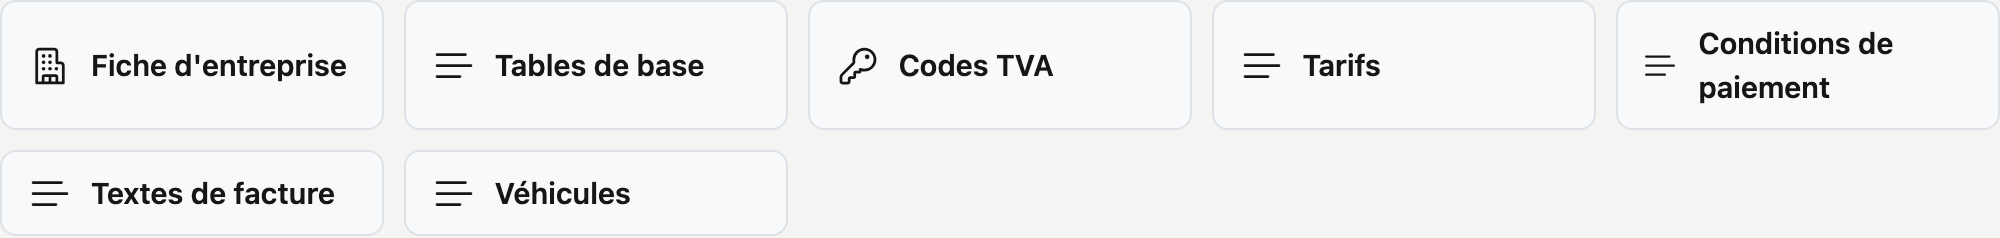
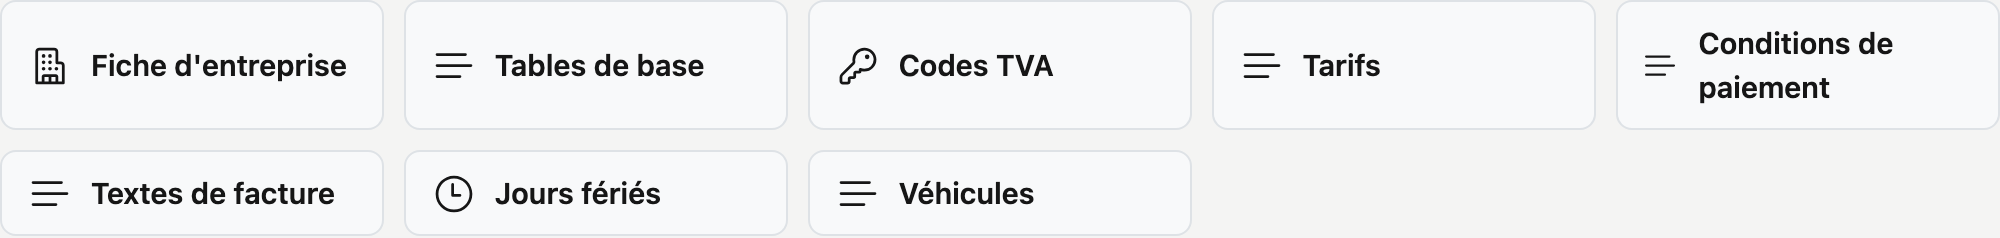
Feestdagen: nieuwe handleidingpagina (NL/FR) + vier beelden; hubbeelden opnieuw met de nieuwe tegel
- beheer/feestdagen.md/.fr.md: de lijst per jaar, wettelijke feestdagen (uit ADM One, elk jaar vanzelf, niet te
  wijzigen; ook die in het weekend), sluitingsdagen (toevoegen, wijzigen, definitief verwijderen), het journaal met het
  logboek van alle sluitingsdagen, waar ze meetellen (verlof, ploegen), en wat er gebeurt als het jaar niet laadt.
- Beelden uit de demo ("Collectieve sluiting" 28-31/12): lijst en venster, NL en FR. Het merkteken van de lijst is de
  badge "sluitingsdag" - de naam staat ook in het verborgen logboek van de journaalstrook.
- Platformbeheer: acht tegels (Feestdagen erbij), beelden opnieuw. Medewerkers: het verlof verwijst naar de pagina.
- mkdocs.yml: nav + nav_translations (Jours fériés).

Changed region(s): [[0.217, 0.7353, 0.341, 0.8824], [0.403, 0.7647, 0.527, 0.8529], [0.403, 0.8529, 0.434, 0.8824]]

diff --git a/docs/beheer/feestdagen.fr.md b/docs/beheer/feestdagen.fr.md
@@ -1,0 +1,60 @@
+# Jours fériés
+
+Les jours non travaillés : les **jours fériés légaux** et vos propres **jours de fermeture**, comme un pont ou la
+fermeture collective entre Noël et Nouvel An. Aucun des deux ne compte comme jour de congé, et le tableau des équipes
+les affiche.
+
+![La liste Jours fériés de 2026, avec les jours fériés légaux et la fermeture collective du 28 au 31 décembre](../images/feestdagen-lijst-fr.png "Jours fériés")
+
+## Ouvrir l'écran
+
+Dans le menu, cliquez en bas sur **Administration**, puis sur la tuile **Jours fériés**.
+
+## La liste
+
+La liste montre une année ; choisissez-la en haut à **Année**. Pour chaque jour ou période, vous voyez :
+
+| Colonne | Ce que c'est |
+|---|---|
+| Du, Au | le premier et le dernier jour |
+| Jour | le jour de la semaine, pour un seul jour |
+| Description | le nom, par exemple *Lundi de Pâques* ou *Fermeture collective* |
+| Type | **jour férié légal** ou **jour de fermeture** |
+
+### Jours fériés légaux
+
+CleanOps calcule lui-même chaque année les jours fériés légaux belges, y compris ceux qui dépendent de Pâques : le
+lundi de Pâques, l'Ascension et le lundi de Pentecôte. Vous n'avez pas à les encoder, et vous ne pouvez ni les
+modifier ni les supprimer. Si vous choisissez l'année suivante, ils y figurent déjà.
+
+Un jour férié qui tombe un samedi ou un dimanche figure aussi dans la liste. Pour les congés, cela ne change rien : ce
+jour n'était pas un jour de travail.
+
+!!! note "L'année ne peut pas être chargée ?"
+    Un message apparaît alors au-dessus de la liste, et vous ne voyez que vos propres jours de fermeture. Réessayez un
+    peu plus tard. Tant que les jours fériés ne peuvent pas être chargés, CleanOps refuse aussi d'encoder des congés :
+    sinon, un jour férié compterait comme jour de congé.
+
+### Jours de fermeture
+
+Les jours de fermeture sont décidés par votre entreprise : un pont, la fermeture collective, le congé du bâtiment.
+
+![La fenêtre Modifier le jour de fermeture, avec la période et la description en néerlandais et en français](../images/feestdag-venster-fr.png "Jour de fermeture")
+
+- **Ajouter** — cliquez sur **Nouveau jour de fermeture**. Du et Au sont obligatoires (pour un seul jour, indiquez
+  deux fois la même date), ainsi qu'une description dans au moins une langue.
+- **Modifier** — double-cliquez sur la ligne.
+- **Supprimer** — ouvrez la ligne et cliquez sur **Supprimer**. Après confirmation, le jour de fermeture disparaît
+  définitivement.
+
+## Le journal
+
+À droite se trouve le **Journal**. L'onglet **Historique** montre qui a créé, modifié ou supprimé quel jour de
+fermeture, et quand — y compris ceux qui ne figurent plus dans la liste. Chaque ligne nomme le jour de fermeture
+concerné.
+
+## Où les jours fériés comptent
+
+- **Congés** — pour une période de congé sur la [fiche collaborateur](../medewerkers.fr.md), CleanOps ne compte que
+  les jours de travail du collaborateur, sans jours fériés ni jours de fermeture.
+- **Équipes** — le tableau des équipes colore le jour et en affiche le nom.

diff --git a/docs/beheer/feestdagen.md b/docs/beheer/feestdagen.md
@@ -1,0 +1,58 @@
+# Feestdagen
+
+De dagen waarop niet gewerkt wordt: de **wettelijke feestdagen** en uw eigen **sluitingsdagen**, zoals een brugdag of
+de collectieve sluiting tussen Kerstmis en Nieuwjaar. Geen van beide telt mee als verlofdag, en het ploegenbord toont
+ze.
+
+![De lijst Feestdagen van 2026, met de wettelijke feestdagen en de collectieve sluiting van 28 tot 31 december](../images/feestdagen-lijst.png "Feestdagen")
+
+## Het scherm openen
+
+Klik onderaan in het menu op **Platformbeheer** en daarna op de tegel **Feestdagen**.
+
+## De lijst
+
+De lijst toont één jaar; kies het bovenaan bij **Jaar**. Per dag of periode ziet u:
+
+| Kolom | Wat het is |
+|---|---|
+| Van, Tot | de eerste en de laatste dag |
+| Dag | de weekdag, bij een enkele dag |
+| Omschrijving | de naam, bijvoorbeeld *Paasmaandag* of *Collectieve sluiting* |
+| Soort | **wettelijke feestdag** of **sluitingsdag** |
+
+### Wettelijke feestdagen
+
+CleanOps rekent de Belgische wettelijke feestdagen elk jaar zelf uit, ook de dagen die met Pasen meeschuiven:
+Paasmaandag, Hemelvaart en Pinkstermaandag. U hoeft ze niet in te geven, en u kunt ze niet wijzigen of verwijderen.
+Kiest u een volgend jaar, dan staan ze er al.
+
+Ook een feestdag die op een zaterdag of zondag valt, staat in de lijst. Voor het verlof maakt dat niets uit: die dag
+was geen werkdag.
+
+!!! note "Kan het jaar niet geladen worden?"
+    Dan staat er een melding boven de lijst, en ziet u enkel uw eigen sluitingsdagen. Probeer het even later
+    opnieuw. Zolang de feestdagen niet geladen kunnen worden, weigert CleanOps ook verlof te boeken: anders zou een
+    feestdag als verlofdag meetellen.
+
+### Sluitingsdagen
+
+Sluitingsdagen beslist uw bedrijf zelf: een brugdag, de collectieve sluiting, het bouwverlof.
+
+![Het venster Sluitingsdag wijzigen, met de periode en de omschrijving in het Nederlands en het Frans](../images/feestdag-venster.png "Sluitingsdag")
+
+- **Toevoegen** — klik op **Nieuwe sluitingsdag**. Van en Tot zijn verplicht (voor één dag vult u tweemaal dezelfde
+  datum in), en een omschrijving in minstens één taal.
+- **Wijzigen** — dubbelklik op de rij.
+- **Verwijderen** — open de rij en klik op **Verwijderen**. Na een bevestiging is de sluitingsdag definitief weg.
+
+## Het journaal
+
+Rechts staat het **Journaal**. Het tabblad **Logboek** toont wie welke sluitingsdag wanneer aanmaakte, wijzigde of
+verwijderde — ook sluitingsdagen die niet meer in de lijst staan. Elke regel noemt de sluitingsdag waarover hij gaat.
+
+## Waar de feestdagen meetellen
+
+- **Verlof** — bij een verlofperiode op de [medewerkerfiche](../medewerkers.md) telt CleanOps enkel de werkdagen van
+  de medewerker, zonder feestdagen en sluitingsdagen.
+- **Ploegen** — het ploegenbord kleurt de dag en toont de naam.

diff --git a/docs/platformbeheer.fr.md b/docs/platformbeheer.fr.md
@@ -11,7 +11,7 @@ Cliquez sur **Administration** dans le menu de gauche.
 Les écrans se présentent sous forme de tuiles, groupées par thème. Si vous passez la souris sur une tuile, une
 phrase apparaît qui précise l'usage de l'écran.
 
-![Les sept tuiles des données de base : Fiche d'entreprise, Tables de base, Codes TVA, Tarifs, Conditions de paiement, Textes de facture et Véhicules](images/platformbeheer-stamgegevens-fr.png "Données de base")
+![Les huit tuiles des données de base : Fiche d'entreprise, Tables de base, Codes TVA, Tarifs, Conditions de paiement, Textes de facture, Jours fériés et Véhicules](images/platformbeheer-stamgegevens-fr.png "Données de base")
 
 **Données de base** — ce qui alimente le reste de CleanOps : une ligne de devis y choisit son tarif, une facture son
 code TVA et sa condition de paiement. Lors d'une nouvelle installation, c'est par là que vous commencez.
@@ -23,6 +23,7 @@ code TVA et sa condition de paiement. Lors d'une nouvelle installation, c'est pa
 - [Tarifs](beheer/tarieven.fr.md) — description et prix unitaire pour une ligne de devis
 - [Conditions de paiement](beheer/betalingstermijnen.fr.md) — comment l'échéance d'une facture est calculée
 - [Textes de facture](beheer/factuurteksten.fr.md) — les textes standard au bas d'une facture
+- [Jours fériés](beheer/feestdagen.fr.md) — les jours fériés légaux et vos propres jours de fermeture
 - [Véhicules](beheer/voertuigen.fr.md) — votre parc, l'entretien et le contrôle technique
 
 **Accès**

diff --git a/docs/platformbeheer.md b/docs/platformbeheer.md
@@ -11,7 +11,7 @@ Klik links in het menu op **Platformbeheer**.
 De schermen staan als tegels, gegroepeerd per onderwerp. Gaat u met de muis over een tegel, dan verschijnt een
 zin die zegt waarvoor het scherm dient.
 
-![De zeven tegels voor de stamgegevens: Bedrijfsfiche, Basistabellen, Btw-codes, Tarieven, Betalingstermijnen, Factuurteksten en Voertuigen](images/platformbeheer-stamgegevens.png "Stamgegevens")
+![De acht tegels voor de stamgegevens: Bedrijfsfiche, Basistabellen, Btw-codes, Tarieven, Betalingstermijnen, Factuurteksten, Feestdagen en Voertuigen](images/platformbeheer-stamgegevens.png "Stamgegevens")
 
 **Stamgegevens** — wat de rest van CleanOps voedt: een offertelijn kiest hier haar tarief, een factuur haar
 btw-code en betalingstermijn. Bij een nieuwe inrichting begint u hier.
@@ -23,6 +23,7 @@ btw-code en betalingstermijn. Bij een nieuwe inrichting begint u hier.
 - [Tarieven](beheer/tarieven.md) — omschrijving en eenheidsprijs voor een offertelijn
 - [Betalingstermijnen](beheer/betalingstermijnen.md) — hoe de vervaldag van een factuur berekend wordt
 - [Factuurteksten](beheer/factuurteksten.md) — de standaardteksten onderaan een factuur
+- [Feestdagen](beheer/feestdagen.md) — de wettelijke feestdagen en uw eigen sluitingsdagen
 - [Voertuigen](beheer/voertuigen.md) — uw vloot, het onderhoud en de keuring
 
 **Toegang**

diff --git a/docs/medewerkers.fr.md b/docs/medewerkers.fr.md
@@ -99,7 +99,7 @@ le nombre de jours et la description.
 | Remarques | Texte libre. |
 
 Sous les champs figure le nombre de **jours de congé** de la période. CleanOps les calcule lui-même : les jours où
-le collaborateur travaille selon son régime de travail, sans les jours fériés. Une personne qui travaille du lundi
+le collaborateur travaille selon son régime de travail, sans les [jours fériés et jours de fermeture](beheer/feestdagen.fr.md). Une personne qui travaille du lundi
 au jeudi compte donc 4 jours pour une semaine complète.
 
 Si le collaborateur figure déjà sur des ordres de travail ouverts ou dans une équipe durant cette période, la

diff --git a/docs/medewerkers.md b/docs/medewerkers.md
@@ -95,7 +95,7 @@ Met **Nieuw verlof** boekt u een periode; dubbelklik op een rij om ze te wijzige
 | Opmerkingen | Vrije tekst. |
 
 Onder de velden staat hoeveel **verlofdagen** de periode telt. CleanOps rekent ze zelf: de dagen waarop de
-medewerker volgens het werkregime werkt, zonder de feestdagen. Wie van maandag tot donderdag werkt, krijgt voor een
+medewerker volgens het werkregime werkt, zonder de [feestdagen en sluitingsdagen](beheer/feestdagen.md). Wie van maandag tot donderdag werkt, krijgt voor een
 volledige week dus 4 dagen.
 
 Staat de medewerker in die periode al op open werkorders of in een ploeg, dan meldt het venster dat. Het verlof
